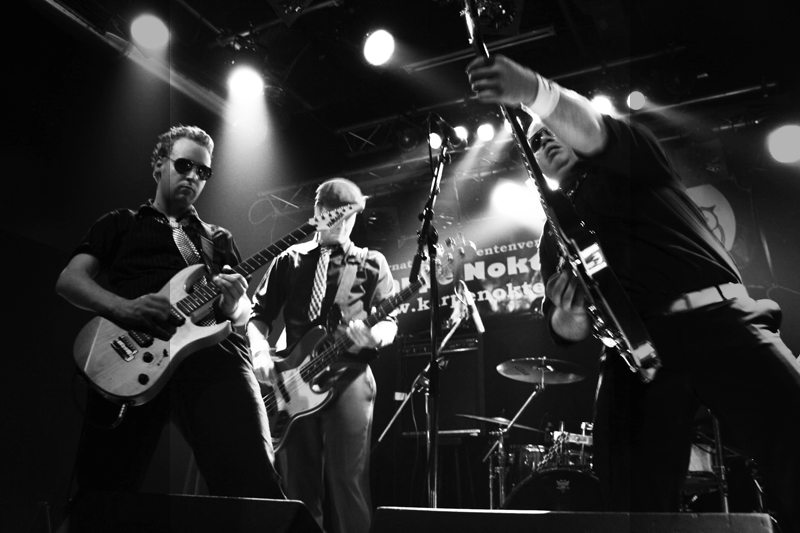
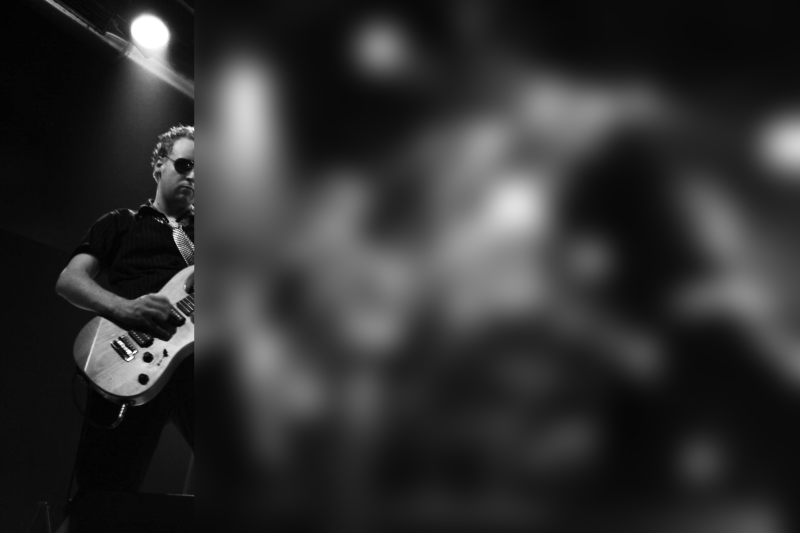
Nieuwe achtergrond en varieerbaar.  Agenda aangepast.

diff --git a/style/common.css b/style/common.css
@@ -72,7 +72,6 @@ a:hover {
 }
 
 #main {
-	background-image: url(../img/bg.png);
 	background-repeat: no-repeat;
 	min-height: 533px;
 }

diff --git a/actions/agenda.php b/actions/agenda.php
@@ -1,32 +1,6 @@
 <?php default_header(); ?>
 
 <ul id="fullagenda">
-	<li><div class="date">Dinsdag 27 november</div>
-	<div class="name">Karpe Noktem goes Pauw&amp;Witteman</div>
-	<div class="desc">De DeLiCo organiseert een tripje naar Amsterdam waar we naar het
-	actualiteitenprogramma Pauw&amp;Witteman gaan. Dit wordt een zeer amusante
-	avond dus geef je snel op! Let op de plaatsen zijn wel beperkt (ongeveer
-	10 man), dus wie het eerst komt wie het eerst maalt. Omdat het programma
-	pas om 23:00 begint zullen we moeten overnachten bij een lief zusje in
-	Amsterdam. Geef je op bij Bram.</div></li>
-	
-	<li><div class="date">Dinsdag 27 november</div>
-	<div class="name">Karpe Noktem goes Pauw&amp;Witteman</div>
-	<div class="desc">De DeLiCo organiseert een tripje naar Amsterdam waar we naar het
-	actualiteitenprogramma Pauw&amp;Witteman gaan. Dit wordt een zeer amusante
-	avond dus geef je snel op! Let op de plaatsen zijn wel beperkt (ongeveer
-	10 man), dus wie het eerst komt wie het eerst maalt. Omdat het programma
-	pas om 23:00 begint zullen we moeten overnachten bij een lief zusje in
-	Amsterdam. Geef je op bij Bram.</div></li>
-	
-	<li><div class="date">Woensdag 28 november</div>
-	<div class="name">Debatavond in Cafe 't Haantje</div>
-	<div class="desc">Samen met de mensen van debatvereniging Trivium
-	onganiseren we weer een spannend debat. De hele avond zullen er
-	verschillende stellingen zijn waarover we gaan debatteren in een
-	lagerhuis-format. Uiteraard zal dit vergezeld gaan van een (of veel meer)
-	biertje(s) om de tongen wat losser te maken. HEAR! HEAR!</div></li>
-	
 	<li><div class="date">Woensdag 5 december</div>
 	<div class="name">Pakjesavond bij Bram thuis (Prof. Bromstraat)</div>
 	<div class="desc">Pakjesavond... maar voor hen die geen sinterklasale

diff --git a/lib/common.php b/lib/common.php
@@ -1,5 +1,7 @@
 <?php
 
+$page = array('bg' => 'bg.png');
+
 function auri($action, $qs='') {
 	global $cfg;
 	return $cfg['auri'] . $action . '?' . $qs; 
@@ -10,7 +12,7 @@ function curi($content) {
 	return $cfg['curi'] . $content;
 }
 
-function default_header() { ?>
+function default_header() { global $page; ?>
 <!DOCTYPE html PUBLIC "-//W3C//DTD XHTML 1.1//EN"
         "http://www.w3.org/TR/xhtml11/DTD/xhtml11.dtd">
 <html xmlns="http://www.w3.org/1999/xhtml" xml:lang="en" lang="en">
@@ -20,6 +22,9 @@ function default_header() { ?>
 			  rel="stylesheet" type="text/css" />
 		<script type="text/javascript" src="<?php echo curi('js/common.js'); ?>"></script>
 		<title>ASV Karpe Noktem</title>
+		<style type="text/css">
+			#main { background-image: url(../img/<?php echo $page['bg']; ?>); }
+		</style>
 	</head>
 	<body>
 		<div id="wrapper">

diff --git a/actions/default.php b/actions/default.php
@@ -1,11 +1,6 @@
-<?php default_header(); ?>
+<?php $page['bg'] = 'bg-home.png';
+	  default_header(); ?>
 			<ul id="agenda">
-				<li><div class="title"><a href="<?php echo auri('agenda'); ?>">
-						Pauw &amp; Witteman</a></div>
-					<div class="desc">27 Nov</div></li>
-				<li><div class="title"><a href="<?php echo auri('agenda'); ?>">
-						Debatavond cafe 't Haantje</a></div>
-				    <div class="desc">28 Nov</div>
 				<li><div class="title"><a href="<?php echo auri('agenda'); ?>">
 						Pakjesavond bij Bram</a></div>
 				    <div class="desc">5 Dec</div>
